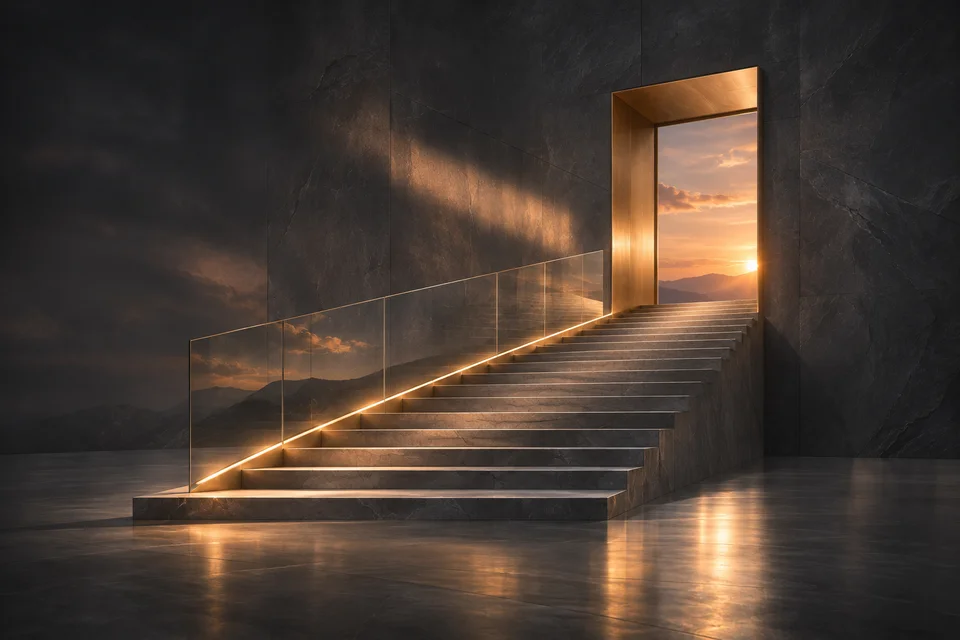
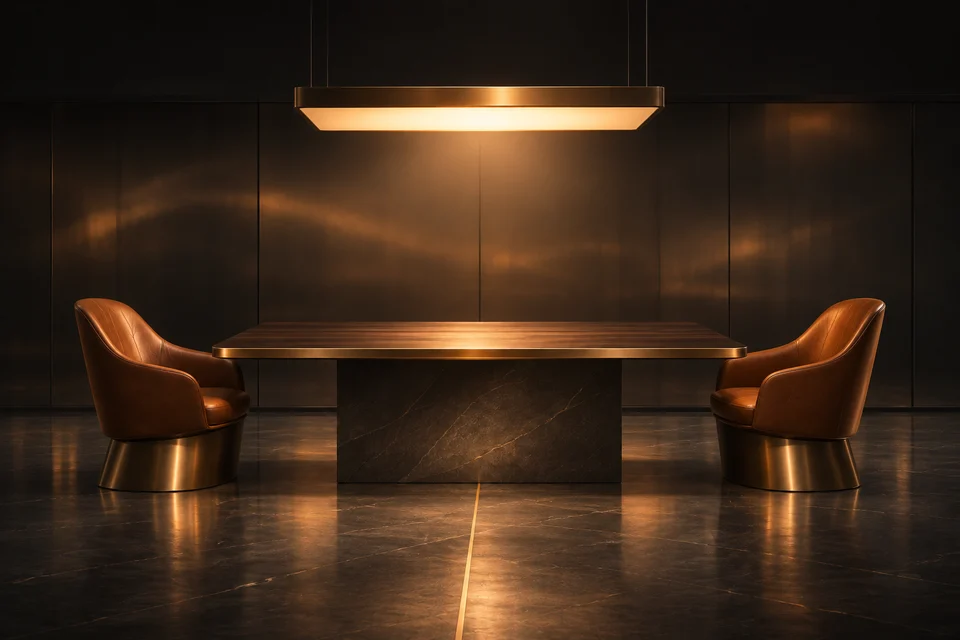
Refresh SEO promotion visuals and make cover labels plain-language

diff --git a/src/seo-arc.css b/src/seo-arc.css
@@ -115,7 +115,8 @@ body[data-page=seo] .arc-hero .button:hover { background:#ffe4ba; border-color:#
 .arc-case-step { --card-pad:clamp(16px,1.65vw,25px); display:flex; flex-direction:column; gap:12px; min-width:0; padding:0 var(--card-pad) var(--card-pad); background:#23231f; border:1px solid #705b414d; border-radius:8px; }
 .arc-case-visual { position:relative; margin:0 calc(-1 * var(--card-pad)) 7px; overflow:hidden; border-radius:7px 7px 0 0; background:#28231d; }
 .arc-case-visual img { display:block; width:100%; height:auto; aspect-ratio:1.9; object-fit:cover; }
-.arc-case-visual span { position:absolute; inset:auto auto 13px 14px; display:grid; place-items:center; width:38px; height:38px; border:1px solid #e7bd8b88; border-radius:50%; color:#fae3c1; background:#181815e6; font-size:12px; }
+.arc-case-visual-caption { position:absolute; inset:auto auto 13px 14px; display:flex; align-items:center; gap:10px; padding:7px 11px; border:1px solid #e7bd8b88; border-radius:4px; color:#fae3c1; background:#181815ed; font-size:12px; font-weight:600; }
+.arc-case-visual-caption b { color:#e9bb85; font-size:11px; letter-spacing:.06em; }
 .arc-case-step h3 { margin:0; max-width:13em; font:500 clamp(26px,2.4vw,37px)/1.03 var(--serif); }
 .arc-case-step > p:not(.arc-label,.arc-case-detail) { margin:0 0 8px; color:var(--muted); font-size:15px; line-height:1.55; }
 .arc-case-detail { margin:auto 0 0; padding:12px 14px; background:#1a1b17; border:1px solid #705b414d; border-radius:5px; color:#e5dfd3; font-size:14px; line-height:1.5; }
